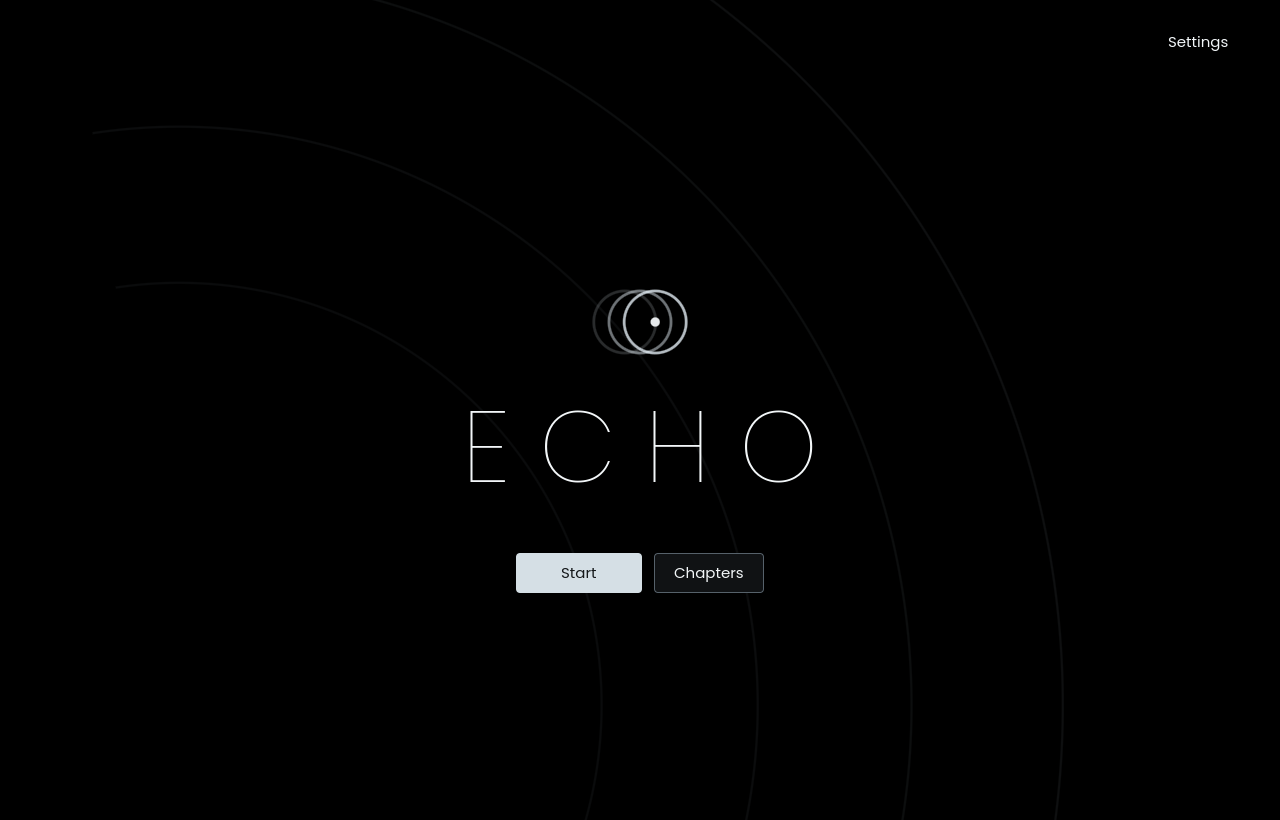
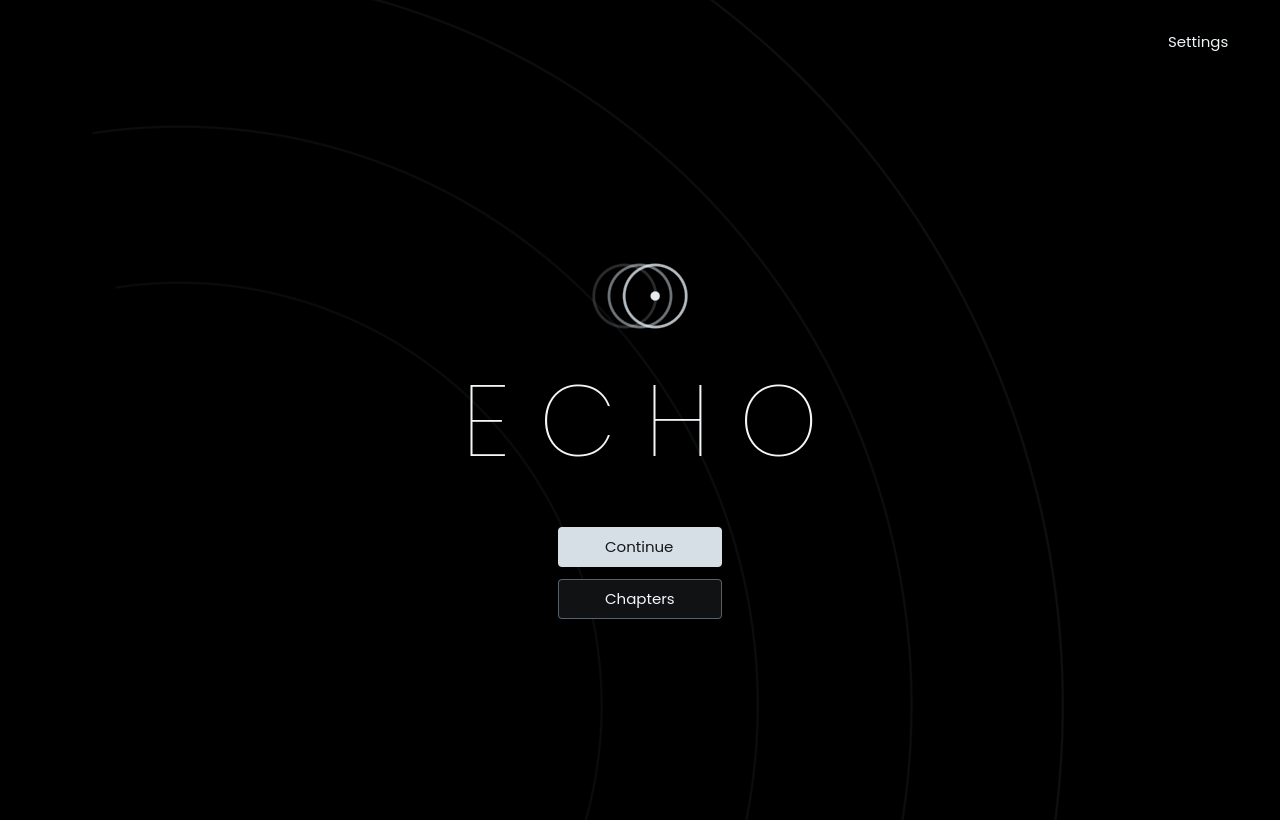
Make room exit visible and stack home actions

diff --git a/README.md b/README.md
@@ -32,6 +32,7 @@ godot --headless --path . --export-release macOS builds/macos/ECHO.zip
 | 修改最近的录制 | 暂停侧栏 → Edit Last Echo，然后逐拍撤销或继续走 |
 | 显示录制路线 / 查看提示 | T / H |
 | 暂停 / 全屏 | Esc / F11 |
+| 退出关卡并回到主页 | 左上角的 Exit Room，再选 Continue 可从原来那一拍继续 |
 
 点右上角的暂停图标或按 Esc 打开侧栏。Settings 分为 Audio、Display 和 Puzzle，可分别调节背景音乐和音效音量，也可调整脚步声、全屏、动效、棋子动画速度、入场标题时长、回声路线和路线深浅。设置自动保存。How to Play 在设置内。需要本关提示时按 H 或选择暂停侧栏里的 Hint。
 
